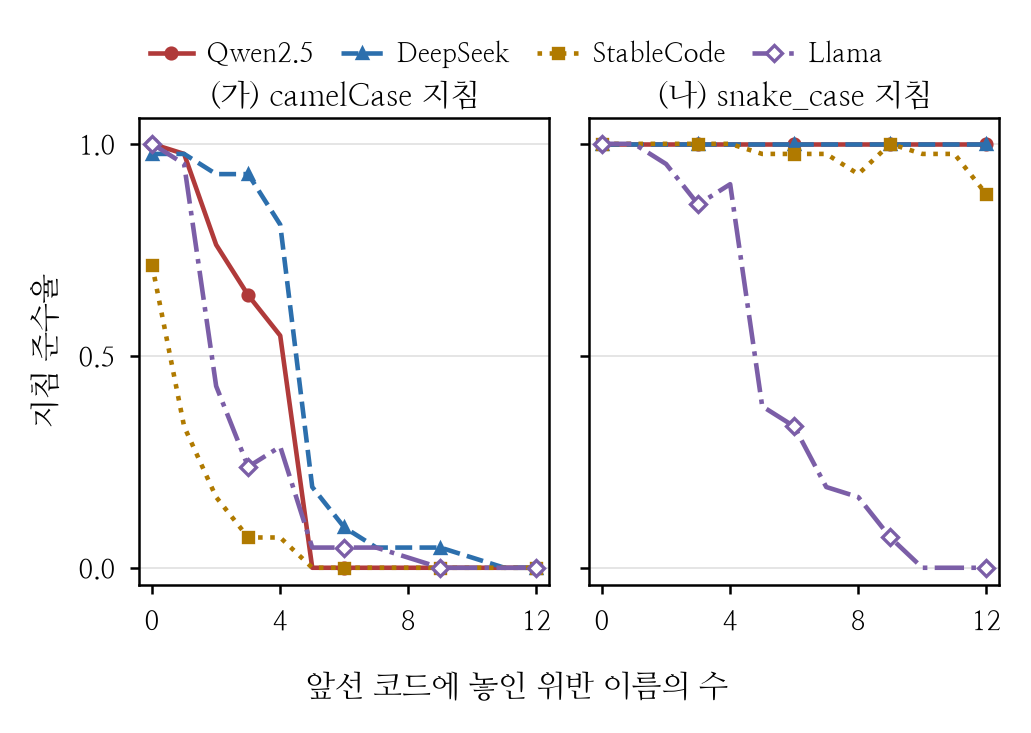
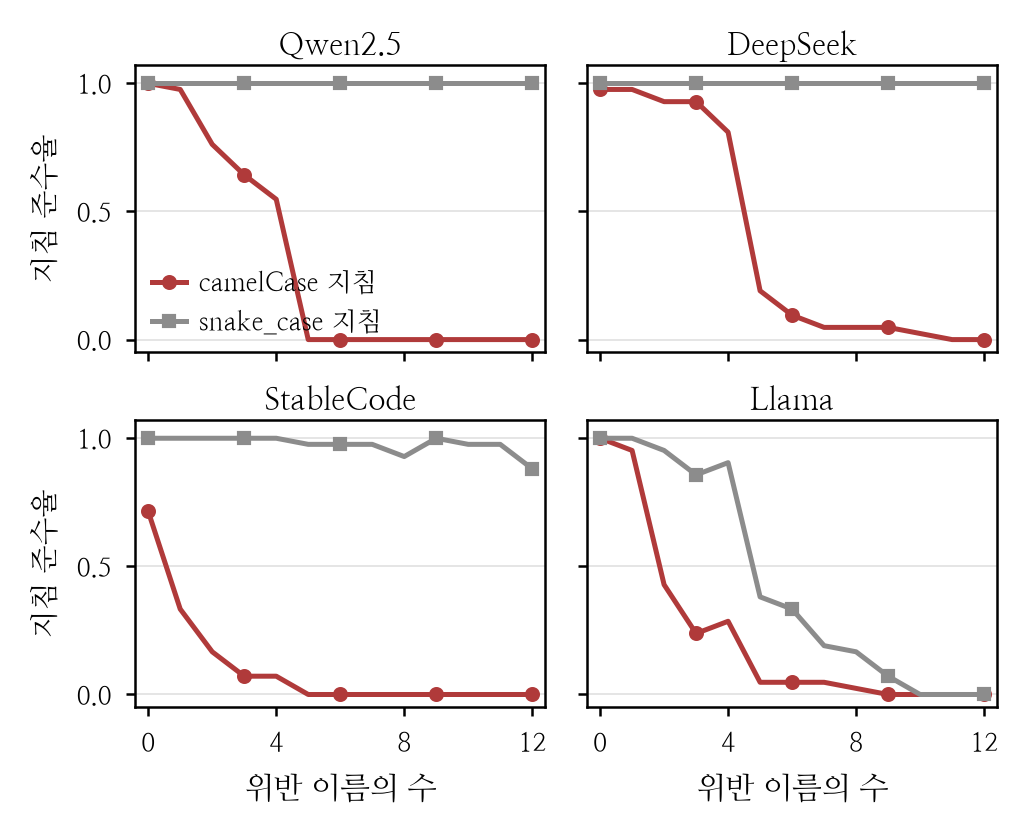
그림 1을 모델당 판 하나로 — 그림 2와 같은 2x2 배치
판을 지침 방향으로 가르면 두 방향 비교가 판 사이를 건너뛰어야 했다. 판을 모델로
가르면 이 스텝의 주장(지침이 기본 선호와 충돌할 때만 무너진다)이 곧 한 판 안의
두 선이 갈라지는 모양이 된다. Llama는 회색까지 따라 내려와 판 하나가 통째로 달라
보이므로 범용 모델의 차이에 설명이 필요 없다.

판당 선이 둘뿐이라 색이 모델을 가를 필요가 없어졌다. 빨강=camelCase 지침,
회색=snake_case 지침으로 되돌려 그림 2~4와 팔레트가 통일된다. 저장 크기도
그림 2와 같아졌다(1028x835 대 1030x835).

Claude-Session: https://claude.ai/code/session_01YabXMXZ1FHdG4oH1H9fXx5

diff --git a/scripts/paper_figures_ko.py b/scripts/paper_figures_ko.py
@@ -126,11 +126,14 @@ def ci95(xs):
 
 # ── 그림 1. 문맥의 위반이 준수율을 무너뜨린다 (step1) ────────────────────
 def fig_cliff(out: Path):
-    """지침이 모델의 기본 선호와 부딪힐 때에만 무너진다 — 방향별로 판을 나눈다.
+    """지침이 모델의 기본 선호와 부딪힐 때에만 무너진다 — 모델당 판 하나.
 
-    네 모델 x 두 방향 = 여덟 선이라 한 판에 겹치면 읽히지 않는다. 방향으로 판을
-    가르면 각 판이 "이 방향에서 문맥이 얼마나 끌어당기는가" 하나만 말한다.
-    색은 코드 특화(빨강)와 범용(회색)을 가르고, 선 모양이 모델을 가른다.
+    판을 모델로 가르면 두 지침 방향이 **한 판 안에서** 갈라지는 것이 보인다. 이 스텝의
+    주장이 곧 그 갈라짐이므로 비교가 판 사이를 건너뛰지 않는다. 세 판은 빨강만 무너지고
+    회색은 평탄한데, Llama 판만 둘 다 무너진다 — 판 하나가 통째로 달라 보인다.
+
+    판당 선이 둘뿐이라 색은 모델이 아니라 **지침 방향**을 뜻한다(그림 2~4와 같은
+    빨강·회색 대비). 그림 2와 판 배치도 같다.
     """
     by = defaultdict(lambda: defaultdict(list))
     for r in load("step1_cliff"):
@@ -139,44 +142,31 @@ def fig_cliff(out: Path):
         by[(c["model"]["family"], c["instruction"]["target_notation"])][n_viol].append(
             1.0 if r["metrics"]["extra"]["first_compliant"] else 0.0)
 
-    # 이 판만 색이 **모델 정체성**을 뜻한다(다른 그림의 빨강·회색은 지침/코드, Value/Key라는
-    # 개념 대비다 — 그쪽은 건드리지 않는다). 네 색은 색각 이상 분리도·명도대·채도·배경 대비를
-    # 검증기로 통과시킨 조합이다. 다만 흑백으로 뽑으면 빨강·파랑·보라의 밝기가 0.13~0.15로
-    # 붙으므로, **선 모양과 표식이 색과 무관하게 모델을 가른다**(색만으로 구분하지 않는다).
-    BLUE, AMBER, PURPLE = "#2C6FAD", "#B07A00", "#7B5EA7"
-    series = [("qwen", RED, "-", "o", 1.0),
-              ("deepseek", BLUE, "--", "^", 1.0),
-              ("stability", AMBER, ":", "s", 1.0),
-              ("llama", PURPLE, "-.", "D", 0.0)]
-
-    # 높이는 저장 결과가 그림 2~4와 같은 비율(가로:세로 = 1.417)이 되도록 맞춘다.
-    # bbox_inches="tight"가 여백을 잘라내므로 figsize가 곧 결과 비율이 아니다 —
-    # 위에 붙는 범례까지 포함해 실제 저장 크기로 맞춰야 논문에서 판 높이가 어긋나지 않는다.
-    fig, axes = plt.subplots(1, 2, figsize=(3.3, 2.145), sharey=True)
-    for ax, (tgt, title) in zip(axes, (("camel", "(가) camelCase 지침"),
-                                       ("snake", "(나) snake_case 지침"))):
-        for m, color, ls, mk, fill in series:
+    fig, axes = plt.subplots(2, 2, figsize=(3.3, 2.65), sharex=True, sharey=True)
+    for ax, m in zip(axes.ravel(), ORDER):
+        for tgt, color, mk, lab in (("camel", RED, "o", "camelCase 지침"),
+                                    ("snake", GRAY, "s", "snake_case 지침")):
             k = (m, tgt)
             if k not in by:
                 continue
             xs = sorted(by[k])
-            ax.plot(xs, [st.mean(by[k][x]) for x in xs], color=color, linestyle=ls,
-                    linewidth=1.1, marker=mk, ms=2.6, markevery=3,
-                    markerfacecolor=color if fill else "white",
-                    markeredgecolor=color, markeredgewidth=0.8, label=SHORT[m])
-        ax.set_title(title, fontsize=7.5, pad=3)
-        ax.set_ylim(-0.04, 1.06)
+            ax.plot(xs, [st.mean(by[k][x]) for x in xs], color=color, linewidth=1.2,
+                    marker=mk, ms=2.6, markevery=3, markerfacecolor=color,
+                    markeredgecolor=color, label=lab)
+        ax.set_title(SHORT[m], fontsize=7.5, pad=2.5)
+        ax.set_ylim(-0.05, 1.07)
         ax.set_yticks([0, 0.5, 1.0])
         ax.set_xticks(range(0, 13, 4))
         ax.set_xlim(-0.4, 12.4)
-        ax.tick_params(labelsize=6.5)
+        ax.tick_params(labelsize=6.2)
         _tidy(ax)
-    axes[0].set_ylabel("지침 준수율", fontsize=7.5)
-    h, l = axes[0].get_legend_handles_labels()
-    fig.legend(h, l, ncol=4, loc="lower center", bbox_to_anchor=(0.5, 0.99),
-               fontsize=6.4, handlelength=1.6, columnspacing=1.0, borderaxespad=0.0)
-    fig.supxlabel("앞선 코드에 놓인 위반 이름의 수", fontsize=7.5, y=0.02)
-    fig.tight_layout(pad=0.25, w_pad=0.8, rect=(0, 0.05, 1, 1))
+    axes[0][0].legend(fontsize=6.2, loc="lower left", handlelength=1.3,
+                      borderaxespad=0.25)
+    for ax in axes[1]:
+        ax.set_xlabel("위반 이름의 수", fontsize=7.5)
+    for ax in axes[:, 0]:
+        ax.set_ylabel("지침 준수율", fontsize=7)
+    fig.tight_layout(pad=0.3, h_pad=0.7, w_pad=0.9)
     _save(fig, out, "ko_cliff")
 
 
